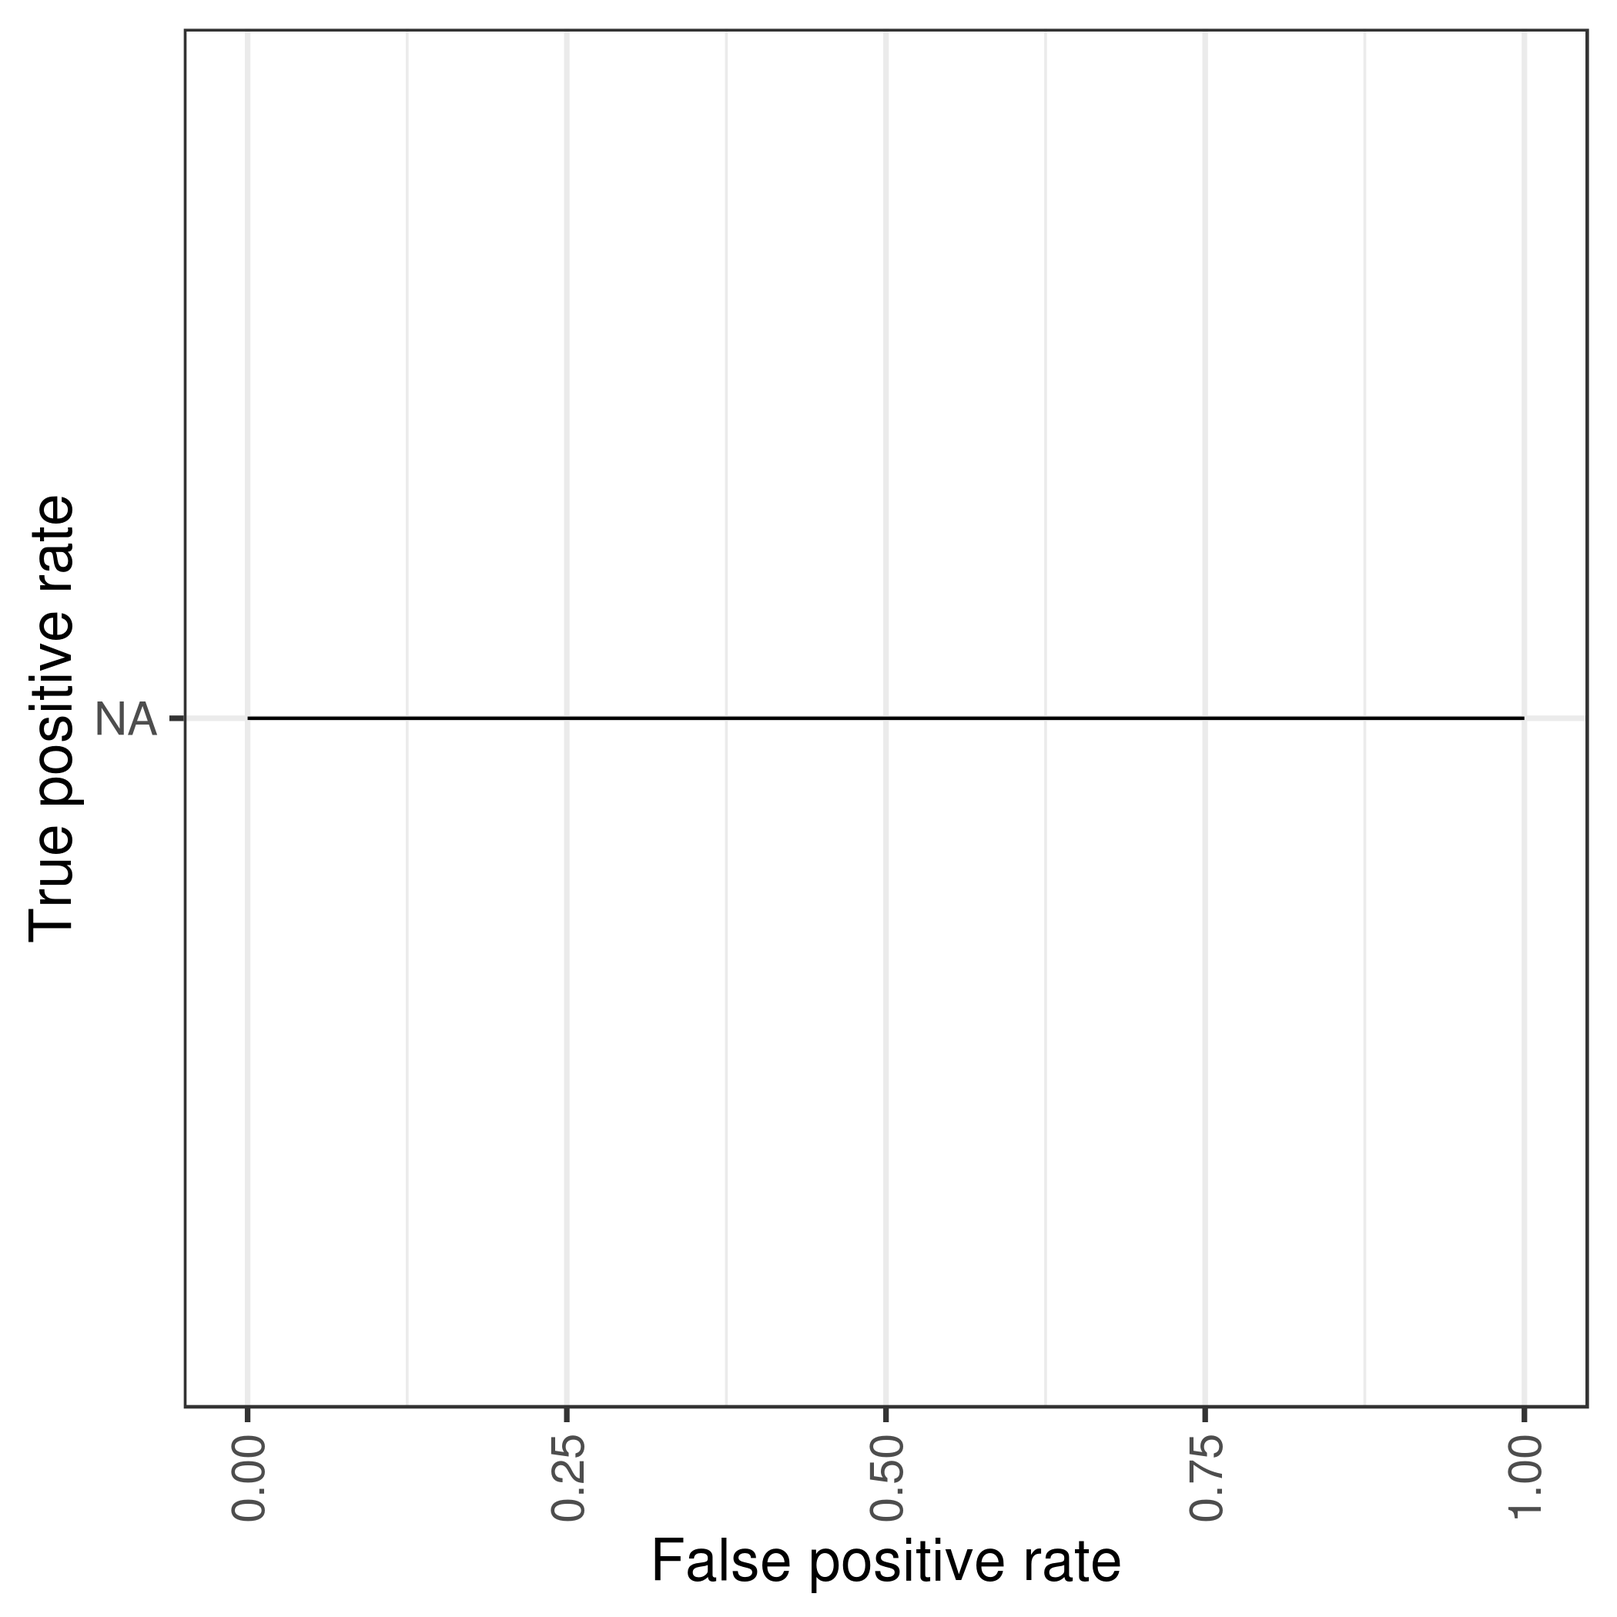
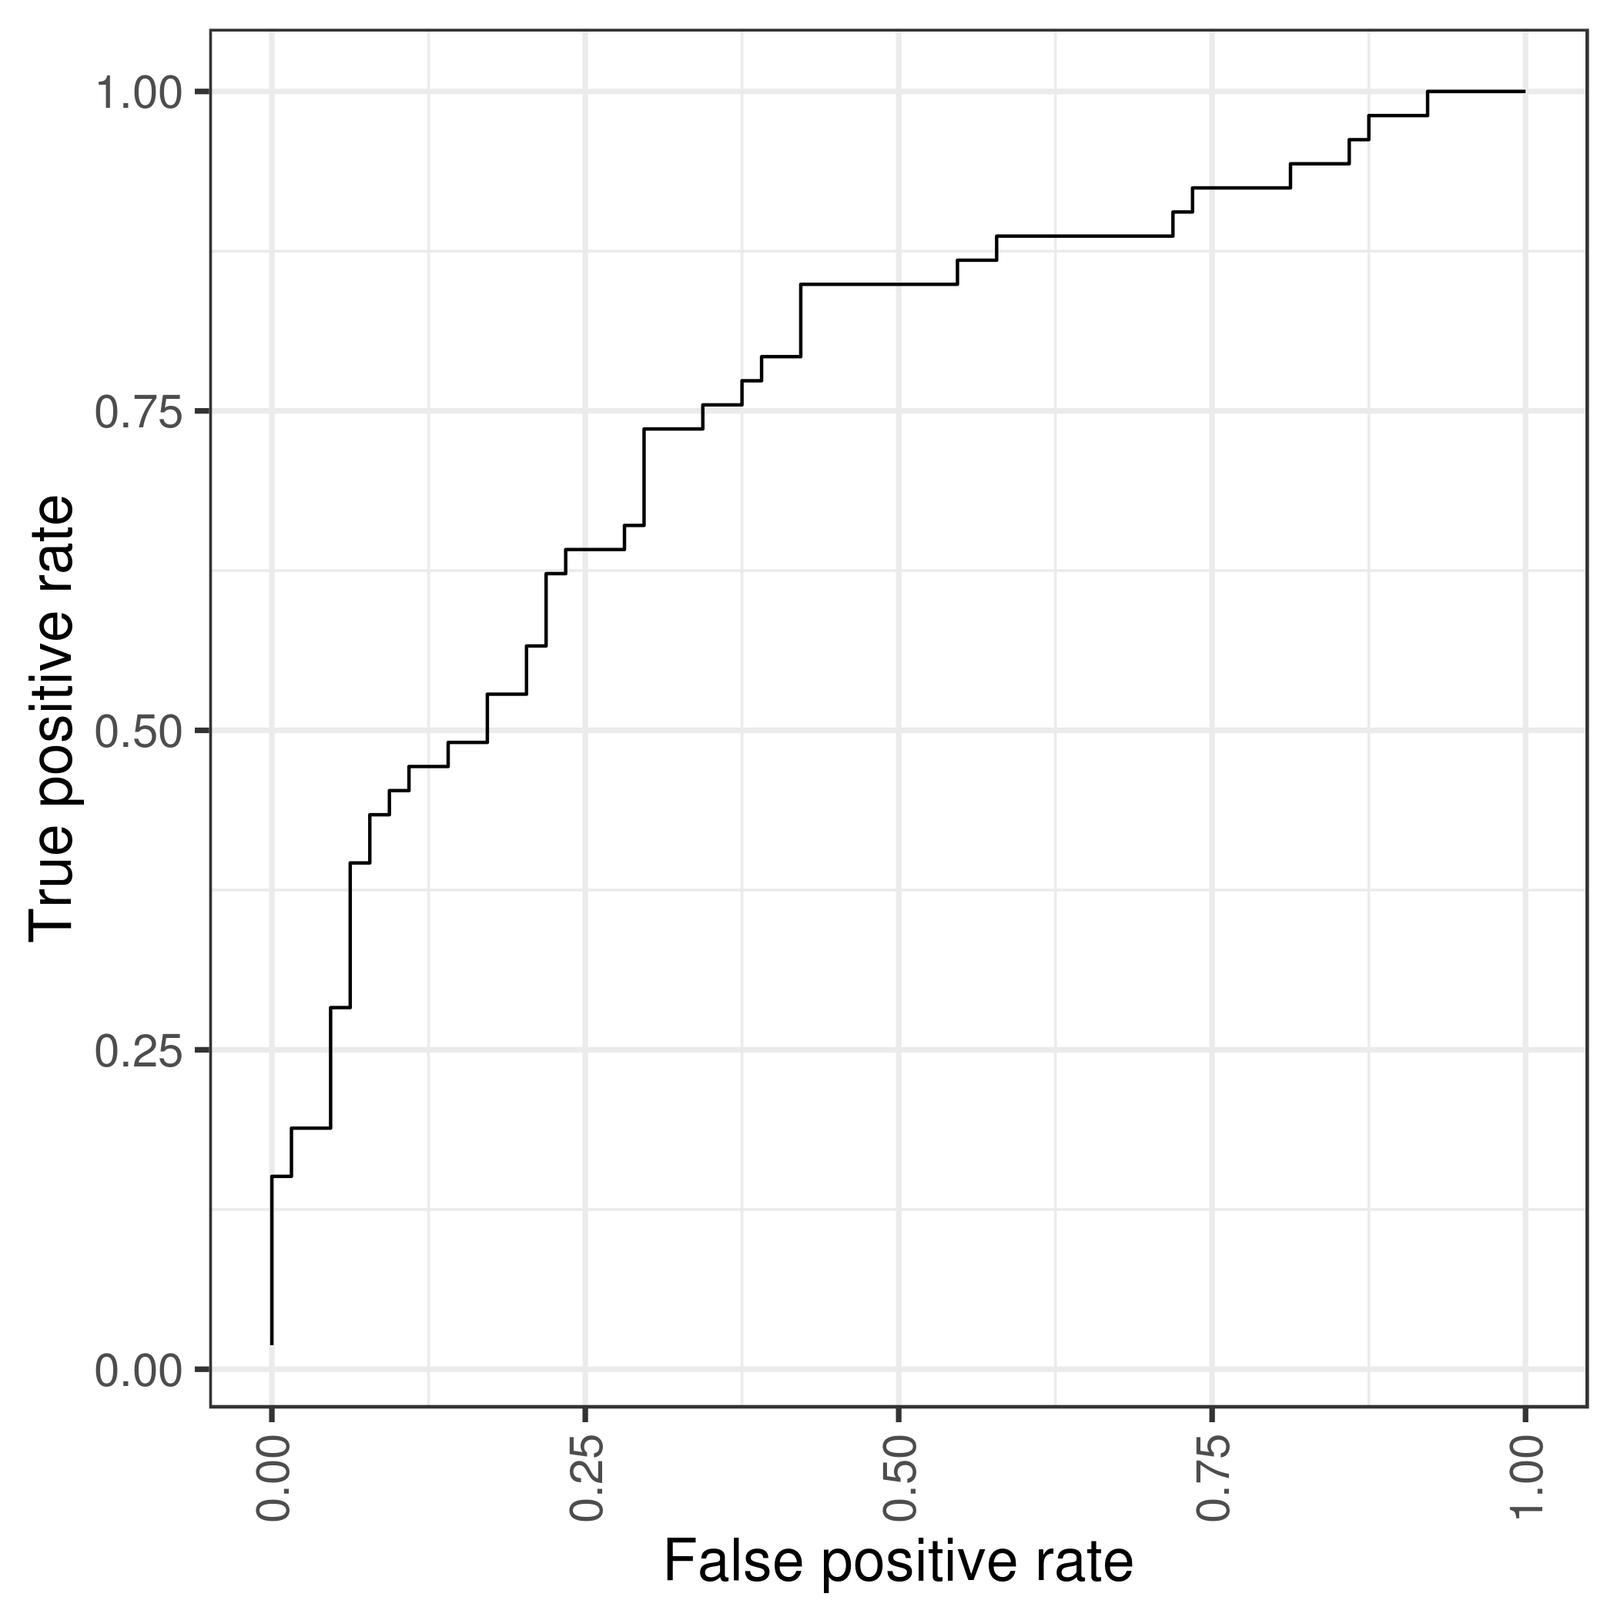
Polygenic risk score multi-ethnic w/ eur base snps and no PCs for pcs.

diff --git a/src/rules/sf_clean_imputed.py b/src/rules/sf_clean_imputed.py
@@ -1,20 +1,27 @@
 """Make imputed vcf files into bfiles w/ correct snp names and fam data.
    Only use good imputations (r2>0.3) and maf>1%
 """
+rule unzip_tpop_imputed:
+    input:
+        DATA + 'interim/imputed_vcf_tpop/chr_{c}.zip'
+    output:
+        DATA + 'interim/imputed_vcf_tpop/chr{c}.dose.vcf.gz'
+    shell:
+        'unzip -o -P "tsUsKloDJe8Q5c" -d {DATA}/interim/imputed_vcf_tpop/ {input}'
 
-rule unzip_imputed:
+rule unzip_eur_imputed:
     input:
         DATA + 'interim/imputed_vcf/chr_{c}.zip'
     output:
-        DATA + 'interim/imputed_vcf/chr{c}.dose.vcf.gz'
+        DATA + 'interim/imputed_vcf_eur/chr{c}.dose.vcf.gz'
     shell:
-        'unzip -o -P "Ok4iEYdK9Ue\Pu" -d {DATA}/interim/imputed_vcf/ {input}'
+        'unzip -o -P "Ok4iEYdK9Ue\Pu" -d {DATA}/interim/imputed_vcf_eur/ {input}'
 
 rule limit_imputed_r2:
     input:
-        DATA + 'interim/imputed_vcf/chr{c}.dose.vcf.gz'
+        DATA + 'interim/imputed_vcf_{pop}/chr{c}.dose.vcf.gz'
     output:
-        DATA + 'interim/imputed_r2_limit_vcf/chr{c}.vcf.gz'
+        DATA + 'interim/imputed_r2_limit_vcf_{pop}/chr{c}.vcf.gz'
     conda:
         ENVS + 'bcftools-env.yml'
     shell:
@@ -22,16 +29,16 @@ rule limit_imputed_r2:
 
 rule vcf_to_bfiles:
     input:
-        DATA + 'interim/imputed_r2_limit_vcf/chr{chr}.vcf.gz'
+        DATA + 'interim/imputed_r2_limit_vcf_{pop}/chr{chr}.vcf.gz'
     output:
-        expand(DATA + 'interim/bfiles_imputed/chr{{chr}}.{suffix}', suffix=('fam', 'bed', 'bim') )
+        expand(DATA + 'interim/bfiles_imputed/{{pop}}/chr{{chr}}.{suffix}', suffix=('fam', 'bed', 'bim') )
     singularity:
         PLINK
     log:
-        LOG + 'prs/{chr}.vcf'
+        LOG + 'prs/{chr}.{pop}.vcf'
     shell:
         "plink --vcf {input} --make-bed --const-fid 0 "
-        "--out {DATA}interim/bfiles_imputed/chr{wildcards.chr} &> {log}"
+        "--out {DATA}interim/bfiles_imputed/{wildcards.pop}/chr{wildcards.chr} &> {log}"
 
 # rule imputed_maf_cutoff:
 #     input:
@@ -50,9 +57,9 @@ rule vcf_to_bfiles:
 
 rule merge_imputed_bfiles_ls:
     input:
-        expand(DATA + 'interim/bfiles_imputed_ex/chr{chr}.fam', chr=range(1, 23))
+        expand(DATA + 'interim/bfiles_imputed_ex/{{pop}}/chr{chr}.fam', chr=range(1, 23))
     output:
-        o = DATA + 'interim/bfiles_imputed.eur.ls'
+        o = DATA + 'interim/bfiles_imputed.{pop}.ls'
     run:
         with open(output.o, 'w') as fout:
             for afile in list(input):
@@ -60,9 +67,9 @@ rule merge_imputed_bfiles_ls:
 
 rule merge_imputed_bfiles_ls_1:
     input:
-        expand(DATA + 'interim/bfiles_imputed/chr{chr}.fam', chr=range(1, 23))
+        expand(DATA + 'interim/bfiles_imputed/{{pop}}/chr{chr}.fam', chr=range(1, 23))
     output:
-        o = DATA + 'interim/bfiles_imputed.eur.ls1'
+        o = DATA + 'interim/bfiles_imputed.{pop}.ls1'
     run:
         with open(output.o, 'w') as fout:
             for afile in list(input):
@@ -70,44 +77,44 @@ rule merge_imputed_bfiles_ls_1:
 
 rule merge_imputed_bfiles_tmp:
     input:
-        DATA + 'interim/bfiles_imputed.eur.ls1'
+        DATA + 'interim/bfiles_imputed.{pop}.ls1'
     output:
-        DATA + 'interim/bfiles_imputed_tmp/eur-merge.missnp'
+        DATA + 'interim/bfiles_imputed_tmp/{pop}-merge.missnp'
     singularity:
         PLINK
     log:
-        LOG + 'prs/merge_tmp'
+        LOG + 'prs/merge_tmp.{pop}'
     shell:
         "plink --merge-list {input} --make-bed "
-        "--out {DATA}interim/bfiles_imputed_tmp/eur &> {log} || touch {output}"
+        "--out {DATA}interim/bfiles_imputed_tmp/{wildcards.pop} &> {log} || touch {output}"
 
 rule rm_imputed_tri_allelic:
     input:
-        f = DATA + 'interim/bfiles_imputed/chr{chr}.fam',
-        ex = DATA + 'interim/bfiles_imputed_tmp/eur-merge.missnp'
+        f = DATA + 'interim/bfiles_imputed/{pop}/chr{chr}.fam',
+        ex = DATA + 'interim/bfiles_imputed_tmp/{pop}-merge.missnp'
     output:
-        DATA + 'interim/bfiles_imputed_ex/chr{chr}.fam'
+        DATA + 'interim/bfiles_imputed_ex/{pop}/chr{chr}.fam'
     singularity:
         PLINK
     log:
-        LOG + 'prs/{chr}.rm_tri_tmp'
+        LOG + 'prs/{chr}.{pop}.rm_tri_tmp'
     shell:
-        "plink --bfile {DATA}/interim/bfiles_imputed/chr{wildcards.chr} "
+        "plink --bfile {DATA}/interim/bfiles_imputed/{wildcards.pop}/chr{wildcards.chr} "
         "--exclude {input.ex} --make-bed "
-        "--out {DATA}interim/bfiles_imputed_ex/chr{wildcards.chr} &> {log} "
+        "--out {DATA}interim/bfiles_imputed_ex/{wildcards.pop}/chr{wildcards.chr} &> {log}"
 
 rule merge_imputed_bfiles:
     input:
-        DATA + 'interim/bfiles_imputed.eur.ls'
+        DATA + 'interim/bfiles_imputed.{pop}.ls'
     output:
-        DATA + 'interim/bfiles_imputed_combined/eur.fam'
+        DATA + 'interim/bfiles_imputed_combined/{pop}.fam'
     singularity:
         PLINK
     log:
-        LOG + 'prs/merge'
+        LOG + 'prs/merge.{pop}'
     shell:
         "plink --merge-list {input} --make-bed "
-        "--out {DATA}interim/bfiles_imputed_combined/eur &> {log} "
+        "--out {DATA}interim/bfiles_imputed_combined/{wildcards.pop} &> {log}"
 
 rule mk_rs_names:
     input:
@@ -125,10 +132,10 @@ rule update_fam:
        These await a new imputation run.
     """
     input:
-        imputed_fam = DATA + 'interim/bfiles_imputed_combined/eur.fam',
-        data_fam = DATA + 'interim/bfiles_eur/3groups.fam'
+        imputed_fam = DATA + 'interim/bfiles_imputed_combined/{pop}.fam',
+        data_fam = DATA + 'interim/bfiles_{pop}/3groups.fam'
     output:
-        o = DATA + 'interim/tmp.fam'
+        o = DATA + 'interim/tmp.{pop}.fam'
     run:
         cols= ['fid', 'iid', 'f', 'm', 'sex', 'pheno']
         int_cols= ['fid', 'f', 'm', 'sex', 'pheno']
@@ -147,17 +154,17 @@ rule update_fam:
 rule rename_rs_imputed_bfiles:
     """Apply 1% maf cutoff."""
     input:
-        fam = DATA + 'interim/tmp.fam',
-        f = DATA + 'interim/bfiles_imputed_combined/eur.fam',
-        rs_names = DATA + 'interim/eur.rs_names'
+        fam = DATA + 'interim/tmp.{pop}.fam',
+        f = DATA + 'interim/bfiles_imputed_combined/{pop}.fam',
+        rs_names = DATA + 'interim/{pop}.rs_names'
     output:
-        DATA + 'processed/bfiles_imputed/eur.fam'
+        DATA + 'processed/bfiles_imputed/{pop}.fam'
     singularity:
         PLINK
     log:
-        LOG + 'prs/rename_rs.eur'
+        LOG + 'prs/rename_rs.{pop}'
     shell:
-        "plink --bfile {DATA}/interim/bfiles_imputed_combined/eur "
+        "plink --bfile {DATA}/interim/bfiles_imputed_combined/{wildcards.pop} "
         "--update-name {input.rs_names} --make-bed --maf 0.01 "
-        "--out {DATA}processed/bfiles_imputed/eur &> {log} && "
+        "--out {DATA}processed/bfiles_imputed/{wildcards.pop} &> {log} && "
         """cp {input.fam} {output}"""

diff --git a/src/rules/sf_prs.py b/src/rules/sf_prs.py
@@ -1,7 +1,7 @@
 """Polygenic risk score after imputation"""
 
 # https://www.nature.com/articles/ng.3359#supplementary-information
-rule prep_gwas_base:
+rule prep_gwas_base_eur:
     input:
         i = DATA + 'raw/ibd_gwas/ng.3359-S4.xlsx'
     output:
@@ -22,12 +22,34 @@ rule prep_gwas_base:
         df.loc[:, 'BP'] = df.apply(fix_positions, axis=1)
         df[cols].rename(columns={'EUR_OR':'OR', 'EUR_PVAL':'PVAL', 'EUR_SE':'SE'}).to_csv(output.o, index=False, sep=' ')
 
+# use eur snps for now
+rule prep_gwas_base_tpop:
+    input:
+        i = DATA + 'raw/ibd_gwas/ng.3359-S4.xlsx'
+    output:
+        o = DATA + 'interim/ibd_gwas.tpop.assoc'
+    run:
+        def fix_positions(row):
+            if row['SNP']=='rs3172494' and row['BP']==48681053:
+                return 48731487
+            if row['SNP']=='rs9868809' and row['BP']==48731487:
+                return 48681053
+            if row['SNP']=='rs4768236' and row['BP']==40528432:
+                return 40756472
+            if row['SNP']=='rs11564258' and row['BP']==40756472:
+                return 40792300
+            return row['BP']
+        df = pd.read_excel(input.i, sheet_name='Heterogeneity of effect', skiprows=7)
+        cols = ['CHR', 'BP', 'SNP', 'A1', 'A2', 'EUR_OR', 'EUR_PVAL', 'EUR_SE']
+        df.loc[:, 'BP'] = df.apply(fix_positions, axis=1)
+        df[cols].rename(columns={'EUR_OR':'OR', 'EUR_PVAL':'PVAL', 'EUR_SE':'SE'}).to_csv(output.o, index=False, sep=' ')
+
 rule mk_prsice_sample_ls:
     input:
         m = DATA + 'processed/MANIFEST.csv',
-        k = DATA + 'interim/mds_cut/3groups.keep_samples'
+        k = DATA + 'interim/mds_cut/{pop}.keep_samples'
     output:
-        keep = DATA + 'interim/sample_subsets.{group}',
+        keep = DATA + 'interim/sample_subsets/{pop}.{group}',
     run:
         keep_samples = {}
         with open(input.k) as f:
@@ -57,7 +79,7 @@ rule mk_prsice_sample_ls:
 # split into groups and recode fam based on groups
 rule mk_prsice_sample_subsets:
     input:
-        keep = DATA + 'interim/sample_subsets.{group}',
+        keep = DATA + 'interim/sample_subsets/{pop}.{group}',
         b = DATA + 'processed/bfiles_imputed/{pop}.fam',
     output:
         b = DATA + 'interim/bfiles_imputed_grouped_tmp/{group}/{pop}.fam'
@@ -108,26 +130,48 @@ rule base_impute_overlap:
         shell('comm -12 {output.o}.a {output.o}.b > {output.o}')
         shell('comm -12 {output.o} {output.o}.init > {output.oi}')
 
-rule prsice:
+rule prsice_eur:
     input:
-        b = DATA + 'interim/bfiles_imputed_grouped/{group}/{pop}.fam',
-        a = DATA + 'interim/ibd_gwas.{pop}.assoc'
+        b = DATA + 'interim/bfiles_imputed_grouped/{group}/eur.fam',
+        a = DATA + 'interim/ibd_gwas.eur.assoc'
     output:
-        DATA + 'interim/prsice/{group}/{pop}.summary',
-        DATA + 'interim/prsice/{group}/{pop}.best'
+        DATA + 'interim/prsice/{group}/eur.summary',
+        DATA + 'interim/prsice/{group}/eur.best'
     singularity:
         PRSICE
     threads: 16
     log:
-        LOG + '{pop}.prs.{group}'
+        LOG + 'eur.prs.{group}'
     shell:
         'Rscript /usr/local/bin/PRSice.R --dir {DATA}/interim/prsice/{wildcards.group}/ '
         '--snp SNP --chr CHR --bp BP --A1 A1 --A2 A2 --stat OR --se SE --pvalue PVAL '
         '--prsice /usr/local/bin/PRSice_linux --keep-ambig '
         '--base {input.a} --perm 1000000 --no-clump '
-        '--target {DATA}interim/bfiles_imputed_grouped/{wildcards.group}/{wildcards.pop} '
+        '--target {DATA}interim/bfiles_imputed_grouped/{wildcards.group}/eur '
         '--thread {threads} --binary-target T '
-        '--out {DATA}interim/prsice/{wildcards.group}/{wildcards.pop} &> {log}'
+        '--out {DATA}interim/prsice/{wildcards.group}/eur &> {log}'
+
+# use 1st two pcs
+rule prsice_tpop:
+    input:
+        b = DATA + 'interim/bfiles_imputed_grouped/{group}/tpop.fam',
+        a = DATA + 'interim/ibd_gwas.tpop.assoc'
+    output:
+        DATA + 'interim/prsice/{group}/tpop.summary',
+        DATA + 'interim/prsice/{group}/tpop.best'
+    singularity:
+        PRSICE
+    threads: 16
+    log:
+        LOG + 'tpop.prs.{group}'
+    shell:
+        'Rscript /usr/local/bin/PRSice.R --dir {DATA}/interim/prsice/{wildcards.group}/ '
+        '--snp SNP --chr CHR --bp BP --A1 A1 --A2 A2 --stat OR --se SE --pvalue PVAL '
+        '--prsice /usr/local/bin/PRSice_linux --keep-ambig '
+        '--base {input.a} --perm 1000000 --no-clump '
+        '--target {DATA}interim/bfiles_imputed_grouped/{wildcards.group}/tpop '
+        '--thread {threads} --binary-target T '
+        '--out {DATA}interim/prsice/{wildcards.group}/tpop &> {log}'
 
 rule annotate_prsice_scores:
     input:
@@ -200,7 +244,11 @@ rule calc_prs_roc:
         auc = DATA + 'interim/prsice_roc/{group}.{pop}.auc'
     run:
         df = pd.read_csv(input.i, sep='\t')
-        df.loc[:, 'y'] = df.apply(lambda row: 1 if row['pheno']==2 else 0, axis=1)
+        if wildcards.group != 'ibd_all':
+            df.loc[:, 'y'] = df.apply(lambda row: 0 if row['pheno']=='HC' else 1, axis=1)
+        else:
+            df.loc[:, 'y'] = df.apply(lambda row: 1 if row['pheno']=='VEO' else 0, axis=1)
+
         precision, recall, thresholds = precision_recall_curve(df['y'], df['PRS'], pos_label=1)
         fpr, tpr, thresholds = roc_curve(df['y'], df['PRS'], pos_label=1)
         auc = metrics.auc(fpr, tpr)

diff --git a/src/rules/Snakefile.py b/src/rules/Snakefile.py
@@ -30,12 +30,12 @@ rule before_imputation:
 
 rule after_imputation:
     input:
-        expand(PLOTS + '{group}.eur.prs.roc.png', group=G),
-        expand(PLOTS + '{group}.eur.prs.density.png', group=G),
-        expand(PLOTS + '{group}.eur.prs.quantiles.png', group=G),
-        expand(DATA + 'interim/plink_assoc_fmt/{group}/eur.assoc', group=G),
-        expand(PLOTS + 'manhattan.{group}.png', group=G),
-        PWD + 'writeup/tables/prs.eur.md',
-        PWD + 'writeup/tables/maf.md',
-        DATA + 'interim/prsice/snp_overlap/all.eur.init',
-        expand(PWD + "writeup/tables/{age}.{group}.eur.assoc.csv", age=('ped', 'adult'), group=G),
+        expand(PLOTS + '{group}.{pop}.prs.roc.png', group=G, pop=('eur', 'tpop')),
+        expand(PLOTS + '{group}.{pop}.prs.density.png', group=G, pop=('eur', 'tpop')),
+        expand(PLOTS + '{group}.{pop}.prs.quantiles.png', group=G, pop=('eur', 'tpop')),
+        # expand(DATA + 'interim/plink_assoc_fmt/{group}/eur.assoc', group=G),
+        # expand(PLOTS + 'manhattan.{group}.png', group=G),
+        expand(PWD + 'writeup/tables/prs.{pop}.md', pop=('eur', 'tpop')),
+        # PWD + 'writeup/tables/maf.md',
+        # expand(DATA + 'interim/prsice/snp_overlap/all.{pop}.init', pop=('eur', 'tpop')),
+        # expand(PWD + "writeup/tables/{age}.{group}.eur.assoc.csv", age=('ped', 'adult'), group=G),

diff --git a/src/rules/sf_mds.py b/src/rules/sf_mds.py
@@ -116,10 +116,13 @@ rule cut_mds:
     input:
         i = DATA + 'interim/mds_dat/ibd_hapmap.dat'
     output:
-        o = DATA + 'interim/mds_cut/3groups.keep_samples'
+        o = DATA + 'interim/mds_cut/{pop}.keep_samples'
     run:
         df = pd.read_csv(input.i, sep='\t')
-        df[(df.C1<-.025) & (df.C2>.025) & ( (df.group=='IBD') | (df.group=='HC') | (df.group=='ONC'))][['FID', 'IID']].to_csv(output.o, index=False, header=None, sep=' ')
+        if wildcards.pop == 'eur':
+            df[(df.C1<-.025) & (df.C2>.025) & ( (df.group=='IBD') | (df.group=='HC') | (df.group=='ONC'))][['FID', 'IID']].to_csv(output.o, index=False, header=None, sep=' ')
+        if wildcards.pop == 'tpop':
+            df[ (df.group=='IBD') | (df.group=='HC') | (df.group=='ONC')][['FID', 'IID']].to_csv(output.o, index=False, header=None, sep=' ')
 
 rule restrict_ibd_samples:
     input:

diff --git a/src/rules/sf_prep_imputation.py b/src/rules/sf_prep_imputation.py
@@ -27,6 +27,14 @@ rule vcf_white:
         "plink --bfile {DATA}interim/bfiles_eur/{wildcards.group} --recode vcf --chr {wildcards.chr} "
         "--out {DATA}interim/bfiles_eur_vcf_chr{wildcards.chr}/{wildcards.group} &> {log}"
 
+rule hack_tpop_fam:
+    input:
+        DATA + 'interim/bfiles_filter_samples/{group}.fam',
+    output:
+        DATA + 'interim/bfiles_tpop/{group}.fam',
+    shell:
+        'cp {input} {output}'
+
 rule vcf_tpop:
     input:
         DATA + 'interim/bfiles_filter_samples/{group}.fam',

diff --git a/writeup/tables/prs.eur.md b/writeup/tables/prs.eur.md
@@ -1,6 +1,6 @@
-| Phenotype   | Set   |   Threshold |     PRS.R2 |    Full.R2 |   Null.R2 | Prevalence   |   Coefficient |   Standard.Error |          P |   Num_SNP |   Empirical-P | test    |   auc |
-|:------------|:------|------------:|-----------:|-----------:|----------:|:-------------|--------------:|-----------------:|-----------:|----------:|--------------:|:--------|------:|
-| -           | Base  |      0.0024 | 0.169971   | 0.169971   |         0 | -            |      282.692  |          84.0009 | 0.00076449 |       231 |      0.001115 | early   |   nan |
-| -           | Base  |      0.0024 | 0.211084   | 0.211084   |         0 | -            |      319.299  |          69.9462 | 4.9968e-06 |       231 |      1.2e-05  | all     |   nan |
-| -           | Base  |      0.0024 | 0.270781   | 0.270781   |         0 | -            |      397.952  |          90.5791 | 1.1158e-05 |       231 |      2.5e-05  | late    |   nan |
-| -           | Base  |      0.0001 | 0.00720984 | 0.00720984 |         0 | -            |      -50.1986 |          72.0272 | 0.485841   |       230 |      0.491804 | ibd_all |   nan |
+| Phenotype   | Set   |   Threshold |     PRS.R2 |    Full.R2 |   Null.R2 | Prevalence   |   Coefficient |   Standard.Error |          P |   Num_SNP |   Empirical-P | test    |      auc |
+|:------------|:------|------------:|-----------:|-----------:|----------:|:-------------|--------------:|-----------------:|-----------:|----------:|--------------:|:--------|---------:|
+| -           | Base  |      0.0024 | 0.169971   | 0.169971   |         0 | -            |      282.692  |          84.0009 | 0.00076449 |       231 |      0.001115 | early   | 0.712993 |
+| -           | Base  |      0.0024 | 0.211084   | 0.211084   |         0 | -            |      319.299  |          69.9462 | 4.9968e-06 |       231 |      1.2e-05  | all     | 0.7409   |
+| -           | Base  |      0.0024 | 0.270781   | 0.270781   |         0 | -            |      397.952  |          90.5791 | 1.1158e-05 |       231 |      2.5e-05  | late    | 0.760908 |
+| -           | Base  |      0.0001 | 0.00720984 | 0.00720984 |         0 | -            |      -50.1986 |          72.0272 | 0.485841   |       230 |      0.491804 | ibd_all | 0.482125 |

diff --git a/writeup/tables/prs.tpop.md b/writeup/tables/prs.tpop.md
@@ -1,0 +1,6 @@
+| Phenotype   | Set   |   Threshold |      PRS.R2 |     Full.R2 |   Null.R2 | Prevalence   |   Coefficient |   Standard.Error |           P |   Num_SNP |   Empirical-P | test    |      auc |
+|:------------|:------|------------:|------------:|------------:|----------:|:-------------|--------------:|-----------------:|------------:|----------:|--------------:|:--------|---------:|
+| -           | Base  |      0.0024 | 0.203767    | 0.203767    |         0 | -            |     337.473   |          82.2938 | 4.11667e-05 |       229 |   7.09999e-05 | early   | 0.746165 |
+| -           | Base  |      0.0024 | 0.217763    | 0.217763    |         0 | -            |     339.778   |          63.3069 | 7.99873e-08 |       229 |   2e-06       | all     | 0.73982  |
+| -           | Base  |      0.0024 | 0.232723    | 0.232723    |         0 | -            |     374.512   |          76.6439 | 1.02704e-06 |       229 |   5.99999e-06 | late    | 0.736083 |
+| -           | Base  |      0.0024 | 0.000112487 | 0.000112487 |         0 | -            |       6.87763 |          70.3589 | 0.92213     |       229 |   0.927778    | ibd_all | 0.528512 |
